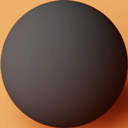
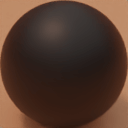
update

diff --git a/src/config/resources.ts b/src/config/resources.ts
@@ -5,13 +5,26 @@ export default [
     { name: 'model-car', type: LoaderType.GLTF, path: '/models/car.glb'},
     { name: 'model-physics-static', type: LoaderType.GLTF, path: '/models/physics-static.glb'},
     { name: 'texture-baked', type: LoaderType.Texture, path: '/textures/baked.jpg'},
-    { name: 'matcap-beige', type: LoaderType.Texture, path: '/matcaps/beige.png'},
     { name: 'matcap-black', type: LoaderType.Texture, path: '/matcaps/black.png'},
-    { name: 'matcap-green', type: LoaderType.Texture, path: '/matcaps/green.png'},
-    { name: 'matcap-white', type: LoaderType.Texture, path: '/matcaps/white.png'},
+    { name: 'matcap-blue-light', type: LoaderType.Texture, path: '/matcaps/blue-light.png'},
+    { name: 'matcap-blue-lighter', type: LoaderType.Texture, path: '/matcaps/blue-lighter.png'},
     { name: 'matcap-blue', type: LoaderType.Texture, path: '/matcaps/blue.png'},
+    { name: 'matcap-brown-dark', type: LoaderType.Texture, path: '/matcaps/brown-dark.png'},
+    { name: 'matcap-brown-light', type: LoaderType.Texture, path: '/matcaps/brown-light.png'},
+    { name: 'matcap-brown-lighter', type: LoaderType.Texture, path: '/matcaps/brown-lighter.png'},
     { name: 'matcap-brown', type: LoaderType.Texture, path: '/matcaps/brown.png'},
-    { name: 'matcap-gold', type: LoaderType.Texture, path: '/matcaps/gold.png'},
+    { name: 'matcap-eye', type: LoaderType.Texture, path: '/matcaps/eye.png'},
+    { name: 'matcap-green', type: LoaderType.Texture, path: '/matcaps/green.png'},
+    { name: 'matcap-pink', type: LoaderType.Texture, path: '/matcaps/pink.png'},
+    { name: 'matcap-purple', type: LoaderType.Texture, path: '/matcaps/purple.png'},
+    { name: 'matcap-purple-dark', type: LoaderType.Texture, path: '/matcaps/purple-dark.png'},
+    { name: 'matcap-purple-light', type: LoaderType.Texture, path: '/matcaps/purple-light.png'},
     { name: 'matcap-red', type: LoaderType.Texture, path: '/matcaps/red.png'},
-    { name: 'matcap-metal', type: LoaderType.Texture, path: '/matcaps/metal.png'}
+    { name: 'matcap-red-dark', type: LoaderType.Texture, path: '/matcaps/red-dark.png'},
+    { name: 'matcap-red-light', type: LoaderType.Texture, path: '/matcaps/red-light.png'},
+    { name: 'matcap-white', type: LoaderType.Texture, path: '/matcaps/white.png'},
+    { name: 'matcap-yellow', type: LoaderType.Texture, path: '/matcaps/yellow.png'},
+    { name: 'matcap-yellow-dark', type: LoaderType.Texture, path: '/matcaps/yellow-dark.png'},
+    { name: 'matcap-yellow-light', type: LoaderType.Texture, path: '/matcaps/yellow-light.png'},
+    { name: 'matcap-eye', type: LoaderType.Texture, path: '/matcaps/eye.png'},
 ]

diff --git a/src/Elements/World.ts b/src/Elements/World.ts
@@ -90,7 +90,7 @@ export default class World {
     }
 
     private setBackground () {
-        const colors = [ new Color('#cfbfa7'), new Color('#cfbfa7'), new Color('#cbbda5'), new Color('#ded5c8') ]
+        const colors = [ new Color('#b07853'), new Color('#b57750'), new Color('#b98968'), new Color('#bc8b6a') ]
         const background = new Background(colors)
         this.scene.add(background.main)
     }
